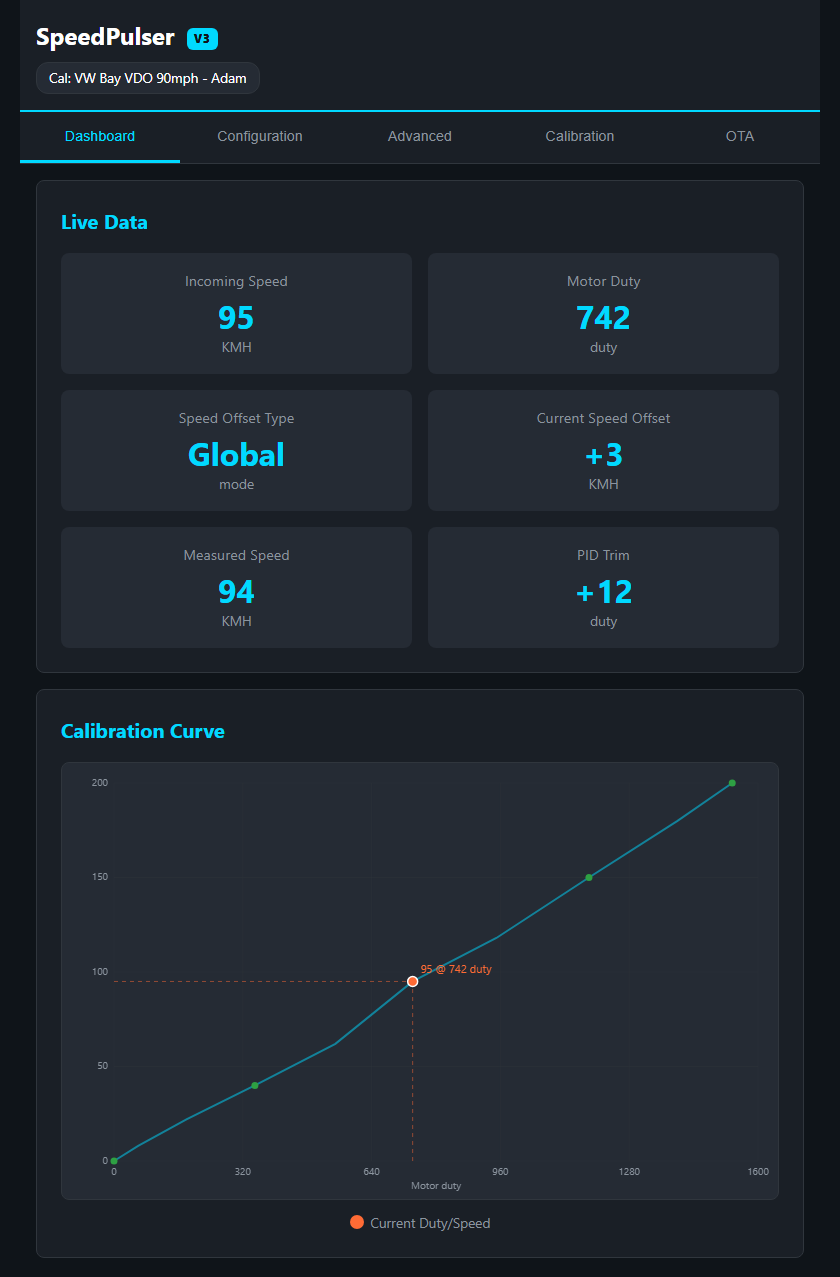
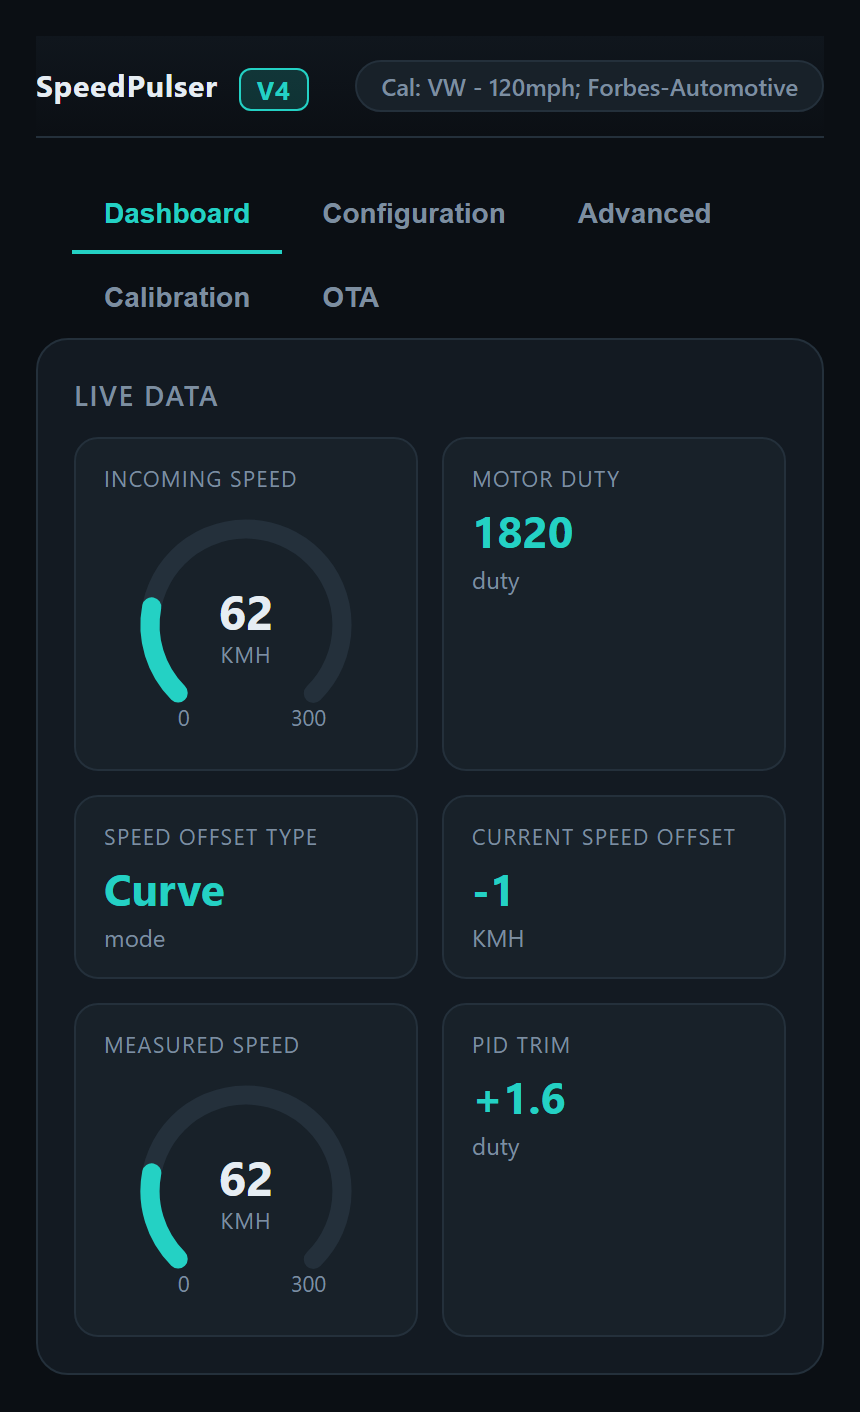
Add files via upload

diff --git a/README.md b/README.md
@@ -4,7 +4,9 @@ The SpeedPulser converts digital speed pulses from a gearbox hall sensor (or a [
 
 It is based on a **LOLIN C3 Mini (ESP32-C3)** and uses a **TY3816B** BLDC motor driven via a native LEDC hardware PWM channel.
 
-![SpeedPulser Web UI](/Images/speedPulserUI.png)
+![SpeedPulser Web UI — dashboard, configuration, limits & offset, PID feedback, status monitor, speed test, top-speed calibration and OTA](/Images/speedPulserUI.png)
+
+![SpeedPulser Web UI — voltage control, calibration builder and export / import](/Images/speedPulserUI-2.png)
 
 ---
 
@@ -140,9 +142,11 @@ Take time here — good fitment minimises noise and extends coupler life.
 
 ## WiFi & Web Interface
 
-Connect to the **`SpeedPulser`** WiFi access point and navigate to **`192.168.1.1`** in a browser.
+Connect to the **`SpeedPulser`** WiFi access point (open network) and navigate to **`192.168.1.1`** or **`speedpulser.local`** in a browser.
 
-The interface is a single-page app served from the ESP32's LittleFS flash partition. Settings are applied in real time and saved to EEPROM automatically every 2 seconds.
+The interface is a single-page app served from the ESP32's LittleFS flash partition, built on Forbes Automotive's shared dark theme (the same look used across OpenHaldex, Can2Cluster, SpeedPulserPro, can2rpm, the MQB Steering Wheel Controller and AirLift Controller). Settings are applied in real time and saved to EEPROM automatically every 2 seconds. Current firmware version: **4.01**.
+
+**Status colours:** most tiles use plain text rather than colour, but a per-tile dial gauge (Incoming Speed / Motor Duty) turns **orange/amber** whenever **Speed Test Mode** or **Calibration Mode** is driving the motor — a reminder that the value shown is a synthetic test value, not a live vehicle reading. A missing motor-feedback signal (legacy PCBs without the feedback circuit) shows as plain **N/A** rather than a coloured warning.
 
 ### Dashboard Tab
 
@@ -163,7 +167,8 @@ currently being achieved — from the hall input, Speed Test Mode or Calibration
 
 While **Speed Test Mode** is active, these fields switch to show the chosen test speed and resulting motor duty instead.
 
-![Dashboard tab — live gauges and calibration curve graph](/Images/ui-dashboard.png)
+<p align="center"><img src="/Images/ui-dashboard.png" alt="Dashboard tab — live data tiles (incoming speed, motor duty, offset type and value, measured speed, PID trim) and the calibration curve graph" width="300"></p>
+
 > The bright dot on the graph is the point currently being achieved — from the hall input, Speed Test Mode or Calibration Mode — plotted against the active calibration's duty/speed curve (green dots = captured/sampled anchor points).
 
 ### Configuration Tab
@@ -182,7 +187,13 @@ While **Speed Test Mode** is active, these fields switch to show the chosen test
 | Cluster in MPH | Convert the km/h input signal to mph before looking up the motor duty |
 | Average Filter Samples | Median smoothing window (1–10) for the incoming signal; higher = steadier but slower |
 
-![Configuration tab — calibration selection, needle sweep, speed limits, speed offset and signal filter cards](/Images/ui-configuration.png)
+<p align="center">
+  <img src="/Images/ui-configuration.png" alt="Configuration tab — calibration selection and needle sweep" width="300">
+  &nbsp;&nbsp;
+  <img src="/Images/ui-speed-limits.png" alt="Configuration tab — speed limits, the 5-point speed-dependent offset curve, cluster-in-MPH and the signal filter" width="300">
+</p>
+
+*Configuration: calibration profile and needle sweep (left); speed limits, the offset curve (or fixed offset), MPH conversion and the median filter window (right).*
 
 ### Advanced Tab
 
@@ -192,30 +203,31 @@ While **Speed Test Mode** is active, these fields switch to show the chosen test
 | Feedback Enable | Turn the closed-loop PID duty trim on or off (**not available on legacy PCBs**) |
 | Min Feedback Speed (km/h) | Below this speed the loop runs open-loop (feed-forward only) to stop low-speed hunting; 0 = always closed-loop |
 | PID Kp / Ki / Kd | Feedback loop gains (defaults 0.15 / 1.3 / 0) |
+| PID Deadband (Hz) | Feedback error (in Hz) ignored by the loop, to stop the needle dithering |
 | Reset PID Defaults | Restore the tuned default gains |
+| Voltage Control *(V4 PCB only)* | Enable the closed-loop **buck-converter voltage** trim and set its nominal / minimum PWM, voltage range, trim gain and loop gains |
 | Performance Array Value | Index of the active calibration array |
 | Incoming Pulses | Raw frequency value from the ISR |
 | Raw Count | Number of samples accumulated so far |
 | LED Counter | ISR pulse counter (also drives the onboard LED blink) |
 
-![Advanced tab — Reverse Direction, Feedback Enable, PID gains and the live Status Monitor](/Images/ui-advanced.png)
+<p align="center">
+  <img src="/Images/ui-advanced.png" alt="Advanced tab — motor direction, feedback enable, min feedback speed, PID gains and deadband" width="300">
+  &nbsp;&nbsp;
+  <img src="/Images/ui-status.png" alt="Advanced tab — live status monitor: performance array, incoming pulses, raw count, LED counter, measured speed / frequency, PID trim, buck state, voltage command and PWM fraction" width="300">
+</p>
 > **Reverse Direction** drives GPIO 10 HIGH instead of LOW, flipping the rotation direction for clusters whose motor is mounted the opposite way round.
 > **Feedback Enable** turns the closed-loop PID trim on; the sliders below it tune the loop and **Reset PID Defaults** restores the tuned baseline (0.15 / 1.3 / 0). See [Closed-Loop Feedback (PID)](#closed-loop-feedback-pid) below for how it works.
 
+On a **V4 PCB** the Advanced tab also shows **Voltage Control**. This is a mid-ranging scheme: the fast PID loop above trims PWM duty to hit the target speed, while a slow loop nudges the buck-converter voltage so the PWM stays near its **Nominal PWM** working point (between the **Minimum / Maximum Voltage** limits). Turn it off to fall back to fixed full-voltage PWM, i.e. legacy behaviour.
+
+<p align="center">
+  <img src="/Images/ui-voltage-control.png" alt="Advanced tab — Voltage Control card: enable, nominal and minimum PWM, minimum / maximum voltage, trim gain and PWM loop gains" width="300">
+</p>
+
 ### Calibration Tab
 
-Contains the **Calibration Builder** and **Speed Test Mode**.
-
-**Calibration Builder**  
-
-1. Tick **Enable Calibration Mode** — the motor now follows the big duty read-out instead
-   of the speed source.
-2. Change the duty to the maximum value (**4096**).  Adjust the trimmer to achieve maximum cluster value.
-3. Change the duty with the **−50 / −10 / −1 / +1 / +10 / +50** buttons until the needle sits exactly on a speed mark.
-4. Pick that speed from the **Target speed** or type it in and press **Capture Point**. Each capture
-   is listed under *Captured Points* and can be removed individually.
-5. Repeat across the scale, name the calibration, then **Generate & Apply** to preview it
-   live and **Save to Device** to store it. **Export / Import** shares it as a text block.
+Contains **Speed Test Mode**, **Export / Import** and — depending on the board — either the **Top Speed Calibration** card (V4 PCB, which can lift the motor supply voltage) or the multi-point **Calibration Builder** (earlier PCBs).
 
 **Speed Test Mode**  
 Locks the motor to a user-chosen speed so the cluster can be observed
@@ -224,14 +236,47 @@ calibration process, to give a realistic preview. With feedback enabled the clos
 loop drives to that speed; the dashboard updates in real time to show the chosen speed
 and the resulting motor duty.
 
-![Calibration tab — Speed Test Mode, the Calibration Builder with captured points, and Export/Import](/Images/ui-calibration.png)
-> Example above: five points captured (0, 40, 95, 150, 200 km/h) for a custom "VW Bay VDO 90mph" build, with the duty point sitting at 742/4095 (18.1%). Once at-least two points are captured, **Generate & Apply** interpolates the full curve and **Save to Device** remembers it — it then appears as the **★ Custom** entry in the Configuration tab's calibration list.
+**Top Speed Calibration** *(V4 PCB)*  
+Tick **Enable Calibration Mode**, then raise **Voltage Lift** and/or **PWM Duty** until the
+needle sits exactly on the top-speed mark (the Maximum Speed set on the Configuration tab)
+and press **Capture Top Speed**. Every lower speed then scales linearly from that single
+point; the low cut-off is **Min Feedback Speed** on the Advanced tab.
+
+<p align="center">
+  <img src="/Images/ui-speed-test.png" alt="Calibration tab — Speed Test Mode with enable and test speed slider" width="300">
+  &nbsp;&nbsp;
+  <img src="/Images/ui-top-speed.png" alt="Calibration tab — Top Speed Calibration (V4): calibration mode, voltage lift, PWM duty and Capture Top Speed" width="300">
+</p>
+
+**Calibration Builder** *(earlier PCBs)*  
+
+1. Tick **Enable Calibration Mode** — the motor now follows the big duty read-out instead
+   of the speed source.
+2. Change the duty to the maximum value (**4096**).  Adjust the trimmer to achieve maximum cluster value.
+3. Change the duty with the **−50 / −10 / −1 / +1 / +10 / +50** buttons until the needle sits exactly on a speed mark.
+4. Pick that speed from the **Target speed** or type it in and press **Capture Point**. Each capture
+   is listed under *Captured Points* and can be removed individually.
+5. Repeat across the scale, name the calibration, then **Generate & Apply** to preview it
+   live and **Save to Device** to store it.
+
+**Export / Import**  
+**Export Text** saves the active calibration as a `.txt` you can share or back up and
+**Import Text** loads one back and applies it. **Export C-Array** writes a paste-ready
+firmware preset (a `motorPerformanceN[]` table plus its `calibrationProfiles[]` line) for
+building a calibration in permanently.
+
+<p align="center">
+  <img src="/Images/ui-calibration.png" alt="Calibration tab — Calibration Builder: calibration mode, duty jog buttons, target speed grid, capture point, name, Generate & Apply and Save to Device" width="300">
+  &nbsp;&nbsp;
+  <img src="/Images/ui-export-import.png" alt="Calibration tab — Export Text, Export C-Array and Import Text" width="300">
+</p>
+> Once at least two points are captured, **Generate & Apply** interpolates the full curve and **Save to Device** remembers it — it then appears as the **★ Custom** entry in the Configuration tab's calibration list.
 
 ### OTA Tab
 
-Upload a new compiled `.bin` firmware file directly from the browser — no USB cable required. The device reboots automatically after a successful flash.
+Upload a new compiled `.bin` firmware file directly from the browser — no USB cable required. Two steps: the **Filesystem** image (`littlefs.bin`, the web UI) first, then the **Firmware** image (`firmware.bin`); the step tracker marks each as it completes and the device reboots automatically after the firmware step. See [Over-the-Air Updates](#over-the-air-updates-two-step).
 
-![OTA tab — firmware info and drag-and-drop update uploader](/Images/ui-ota.png)
+<p align="center"><img src="/Images/ui-ota.png" alt="OTA tab — firmware info and the two-step filesystem / firmware uploader" width="300"></p>
 
 ---
 
@@ -283,10 +328,11 @@ Values near index 0 are `0` — the motor's dead band where it will not yet turn
 ```
 Hall sensor pulse
     │
-    ▼  incomingHz()
-    Measures pulse interval → calculates frequency (Hz)
+    ▼  incomingHz()  — windowed capture
+    Accumulates each edge interval + count; rejects pulses < 3 ms (> 333 Hz) as noise
     │
-    ▼  speedControlTask
+    ▼  speedControlTask  (once per loop)
+    frequency = intervals ÷ summed interval time   (true average over the window)
     map(frequency, 0, maxFreqHall, 0, maxSpeed)  →  speed in km/h
     │
     ▼  RunningMedian filter  (averageFilter samples, default 6)
@@ -304,6 +350,8 @@ Hall sensor pulse
     ▼  setMotorDuty()  — native LEDC IDF driver, 10 kHz
     Motor PWM output on GPIO 2
 ```
+
+> **Windowed frequency capture:** Rather than deriving speed from a single edge-to-edge period — which turns tone-wheel / tooth-spacing jitter straight into a jumpy needle — the ISR accumulates the edge intervals and the task averages them once per window. Pulses closer than ~3 ms (> 333 Hz) are rejected, so ignition-coil EMI can't be mistaken for a valid speed.
 
 > **Default hall-sensor scaling:** 1 Hz = 1 km/h. This matches 02J / 02M gearbox sensors used in most VW/Audi applications. Adjust `maxFreqHall` and `maxSpeed` together if your sensor has a different ratio (e.g. set both to 160 for a sensor that outputs 160 Hz at 160 km/h).
 
@@ -363,15 +411,22 @@ As soon as a device reconnects to the WiFi AP, full power is restored automatica
 
 ---
 
-## Over-the-Air Updates
+## Over-the-Air Updates (Two-Step)
 
-New firmware can be flashed without removing the unit from the vehicle:
+New firmware can be flashed without removing the unit from the vehicle. Firmware and the web UI live on separate flash partitions, so updating is a **two-step process** using the shared `ota_manager` module:
 
-1. Build the project in PlatformIO → locate the `.bin` file in `.pio/build/lolin_c3_mini/`.
-2. Connect to the `SpeedPulser` WiFi AP.
+1. **Filesystem** — in the **OTA** tab, select **Filesystem (web UI)** and upload `littlefs.bin` (`POST /api/ota/fs`, written to the SPIFFS partition). This updates `index.html` / `app.js` / `style.css`; the device does **not** reboot after this step, so you can go straight on to step 2.
+2. **Firmware** — select **Firmware (application)** and upload `firmware.bin` (`POST /api/ota`, written to the OTA app partition). The device reboots automatically once this completes.
+
+Steps in full:
+
+1. Build the project in PlatformIO → locate `firmware.bin` in `.pio/build/lolin_c3_mini/` and `littlefs.bin` under the filesystem build output.
+2. Connect to the `SpeedPulser` WiFi AP (or `speedpulser.local`).
 3. Open the **OTA** tab in the browser.
-4. Select the `.bin` file and click Upload.
-5. The device flashes and reboots automatically.
+4. Upload the filesystem image first, then the firmware image.
+5. The device flashes and reboots automatically after the firmware step.
+
+`GET /api/ota/info` reports the running version, board and hardware.
 
 ---
 
